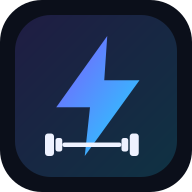
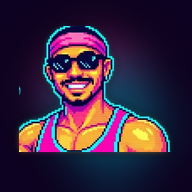
Nuova icona app: Doc Jos pixel-art (dalla mascotte Higgsfield) su sfondo neon; aggiornati manifest/index/service worker (cache v3), tolto vecchio bolt SVG

diff --git a/index.html b/index.html
@@ -3,13 +3,13 @@
   <head>
     <meta charset="UTF-8" />
     <meta name="viewport" content="width=device-width, initial-scale=1.0, viewport-fit=cover, maximum-scale=1.0, user-scalable=no" />
-    <meta name="theme-color" content="#0b0f1a" />
+    <meta name="theme-color" content="#0d0221" />
     <meta name="apple-mobile-web-app-capable" content="yes" />
     <meta name="apple-mobile-web-app-status-bar-style" content="black-translucent" />
     <meta name="apple-mobile-web-app-title" content="FitAi" />
     <link rel="manifest" href="/manifest.webmanifest" />
     <link rel="apple-touch-icon" href="/apple-touch-icon.png" />
-    <link rel="icon" type="image/svg+xml" href="/icon.svg" />
+    <link rel="icon" type="image/png" href="/favicon.png" />
     <link rel="preconnect" href="https://fonts.googleapis.com" />
     <link rel="preconnect" href="https://fonts.gstatic.com" crossorigin />
     <link href="https://fonts.googleapis.com/css2?family=Press+Start+2P&family=VT323&display=swap" rel="stylesheet" />

diff --git a/public/sw.js b/public/sw.js
@@ -1,7 +1,7 @@
 // Service worker minimale: abilita l'installazione PWA e un caching base
 // per l'uso offline dell'app (i dati utente restano in localStorage).
-const CACHE = 'fitai-v2'
-const ASSETS = ['/', '/index.html', '/manifest.webmanifest', '/icon.svg']
+const CACHE = 'fitai-v3'
+const ASSETS = ['/', '/index.html', '/manifest.webmanifest', '/icon-192.png', '/icon-512.png', '/apple-touch-icon.png', '/favicon.png']
 
 self.addEventListener('install', (e) => {
   e.waitUntil(caches.open(CACHE).then((c) => c.addAll(ASSETS)).then(() => self.skipWaiting()))